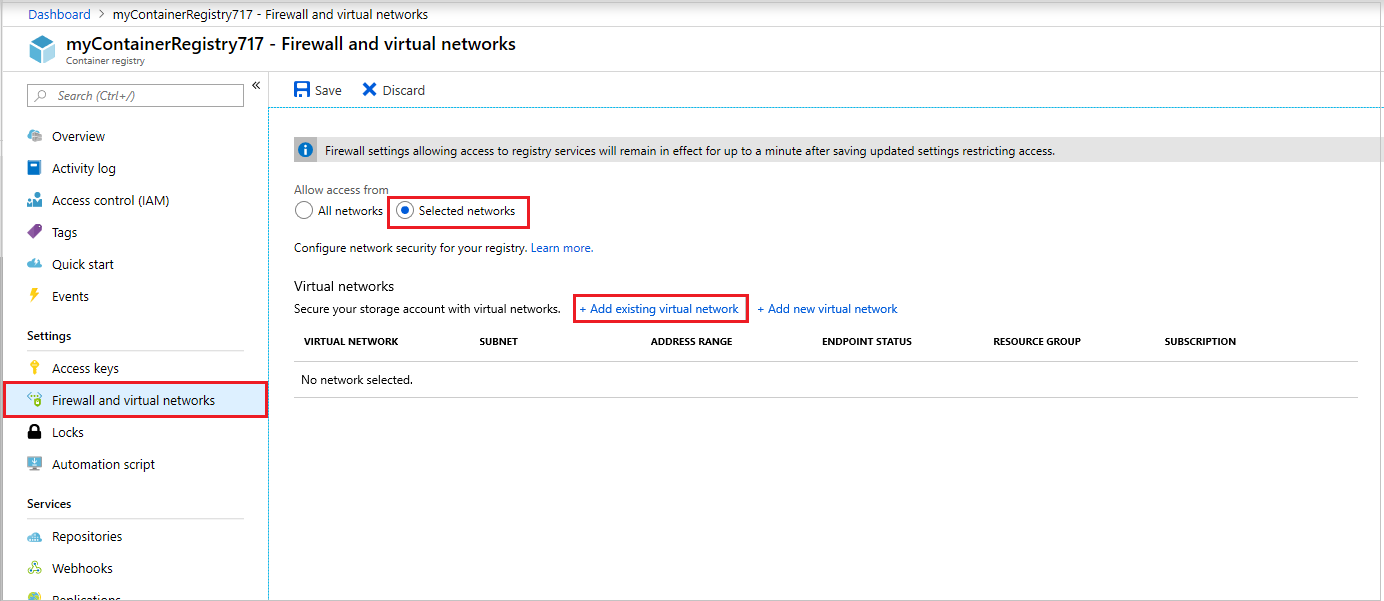
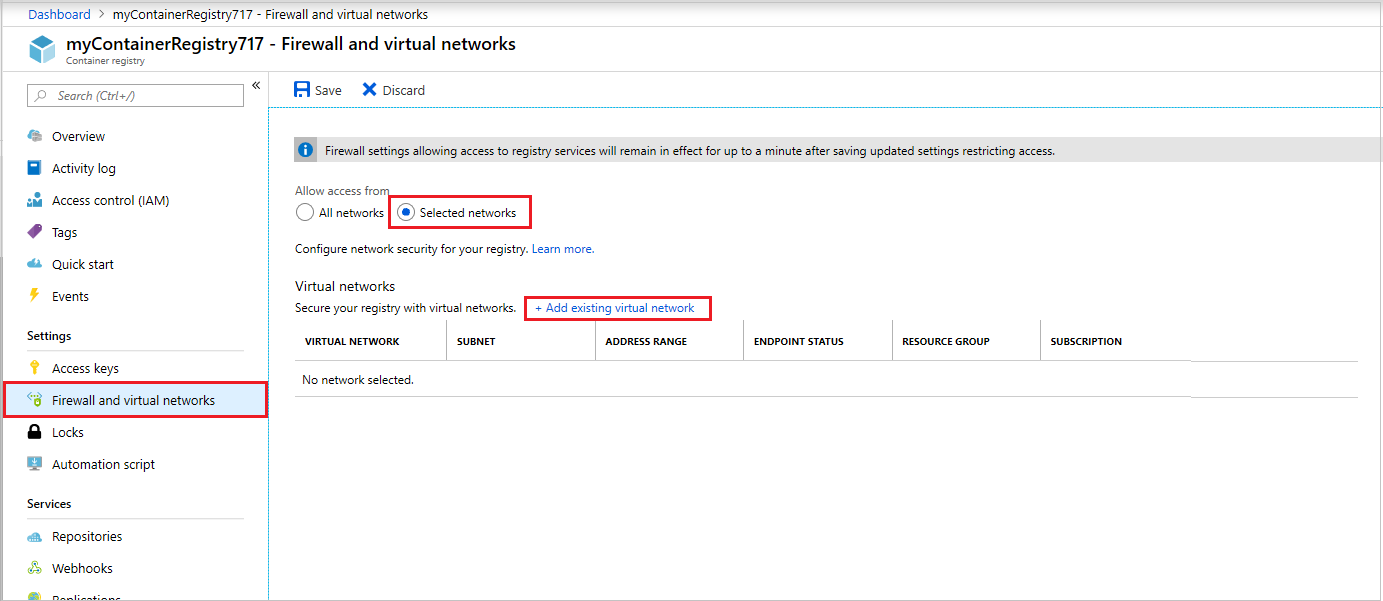
edits

diff --git a/articles/container-registry/container-registry-vnet.md b/articles/container-registry/container-registry-vnet.md
@@ -29,7 +29,7 @@ For this example, you must also have Docker installed locally. Docker provides p
 
 The following limitations currently apply to the preview:
 
-* Only an Azure AKS cluster or Azure virtual machine can be used as a client to access a container registry in a virtual network. Other Azure services including Azure Container Instances aren't currently supported.
+* Only an Azure virtual machine or Azure AKS cluster can be used as a client to access a container registry in a virtual network. Other Azure services including Azure Container Instances aren't currently supported.
 * You can only use the Azure portal to manage default network access rules for a container registry.
 * Container registries in virtual networks are only supported in the following regions: West Central US... [add others?]
 
@@ -138,6 +138,16 @@ Create an Azure container registry instance using the [az acr create][az-acr-cre
 az acr create --resource-group myResourceGroup --name myContainerRegistry717 --sku Premium
 ```
 
+### Log in to the registry
+
+Before pushing and pulling container images, you must log in to the registry instance. To do so, use the [az acr login][az-acr-login] command.
+
+```azurecli
+az acr login --name myContainerRegistry717
+```
+
+The command returns a `Login Succeeded` message once completed.
+
 ### Push a sample image to the registry
 
 To push an image to an Azure container registry, you must first have an image. If you don't yet have any local container images, run the following local Docker command to pull an existing image from Docker Hub.
@@ -222,15 +232,12 @@ Several virtual network resources and features were discussed in this article, t
 * [Subnet](../virtual-network/virtual-network-manage-subnet.md)
 * [Service endpoints](../virtual-network/virtual-network-service-endpoints-overview.md)
 
-
 <!-- IMAGES -->
-[aci-vnet-01]: ./media/container-instances-vnet/aci-vnet-01.png
 
 <!-- LINKS - External -->
 [aci-helloworld]: https://hub.docker.com/r/microsoft/aci-helloworld/
 [terms-of-use]: https://azure.microsoft.com/support/legal/preview-supplemental-terms/
 [kubectl]: https://kubernetes.io/docs/user-guide/kubectl/
-[kubectl-get]: https://kubernetes.io/docs/reference/generated/kubectl/kubectl-commands#get
 [docker-linux]: https://docs.docker.com/engine/installation/#supported-platforms
 [docker-login]: https://docs.docker.com/engine/reference/commandline/login/
 [docker-mac]: https://docs.docker.com/docker-for-mac/
@@ -244,6 +251,7 @@ Several virtual network resources and features were discussed in this article, t
 [az-acr-show]: /cli/azure/acr#az-acr-show
 [az-acr-repository-show]: /cli/azure/acr/repository#az-acr-repository-show
 [az-acr-repository-list]: /cli/azure/acr/repository#az-acr-repository-list
+[az-acr-login]: /cli/azure/acr#az-acr-login
 [az-acr-run]: /cli/azure/acr#az-acr-run
 [az-ad-sp-create-for-rbac]: /cli/azure/ad/sp#az-ad-sp-create-for-rbac
 [az-role-assignment-create]: /cli/azure/role/assignment#az-role-assignment-create
